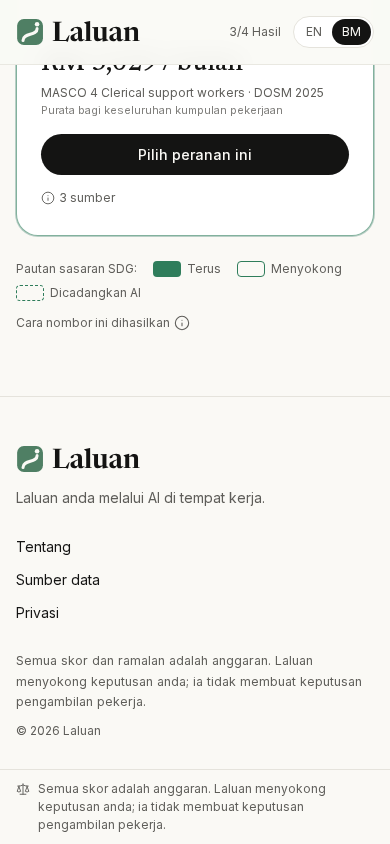
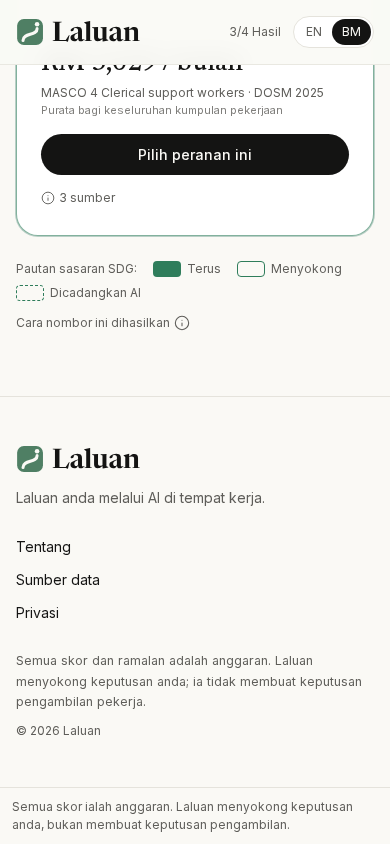
Shorter BM disclaimer + mobile bar layout (#49)
* UI polish: EN|BM site toggle, footer, profile card, interview Q2/Q3, results heading, hover popovers, show-less toggles, DOSM salary on role cards

* i18n: move fixed UI strings into EN/BM dictionaries (BM machine-translated)

* Designer fixes: exposure placeholder, disclaimer bar, toast dismiss, sticky header, horizontal scenario tabs, popover alignment, exposure line, grid alignment, mobile landing, BM fixes, education block, Q2 heading

* i18n status labels and salary unit, stacked mobile landing preview, refreshed EN/BM screenshots

* Text-only exposure-pending card with not-job-loss line; pure i18n-messages module so /status prerenders; Toaster duration 3000; salary CSV major-group notes and masco_level=1; results viewport screenshots

* Shorter BM disclaimer bar text; refresh BM mobile results screenshots

* Disclaimer bar: hide scale icon and 12px side padding on mobile; refresh EN/BM mobile results screenshots

Changed region(s): [[0.0308, 0.9242, 0.8308, 0.9858]]

diff --git a/src/components/estimate-footer.tsx b/src/components/estimate-footer.tsx
@@ -8,9 +8,9 @@ export function EstimateFooter() {
   const { t } = useT();
   return (
     <footer className="fixed inset-x-0 bottom-0 z-40 border-t border-line bg-paper">
-      <div className="mx-auto flex max-w-[1248px] items-center justify-between gap-4 px-4 py-2.5 text-[12px] text-grey sm:px-6">
+      <div className="mx-auto flex max-w-[1248px] items-center justify-between gap-4 px-3 py-2.5 text-[12px] text-grey sm:px-6">
         <p className="flex items-start gap-2 sm:items-center">
-          <Scale className="mt-0.5 size-3.5 shrink-0 sm:mt-0" strokeWidth={1.6} />
+          <Scale className="mt-0.5 hidden size-3.5 shrink-0 sm:block sm:mt-0" strokeWidth={1.6} />
           {t("estimateFooter.disclaimer")}
         </p>
         <span className="tag hidden whitespace-nowrap sm:inline-flex">{t("estimateFooter.publicData")}</span>

diff --git a/src/lib/i18n-messages.ts b/src/lib/i18n-messages.ts
@@ -476,7 +476,7 @@ export const MS: Record<MessageKey, string> = {
   "radar.tooSmallItem": "{keyword} ({recent} berbanding {previous})",
   "radar.matchYourSkills": "Padankan kemahiran anda sendiri",
   "estimateFooter.disclaimer":
-    "Semua skor adalah anggaran. Laluan menyokong keputusan anda; ia tidak membuat keputusan pengambilan pekerja.",
+    "Semua skor ialah anggaran. Laluan menyokong keputusan anda, bukan membuat keputusan pengambilan.",
   "estimateFooter.publicData": "Data awam, profil sintetik",
   "refreshButton.label": "Muat semula",
   "roleCard.tier.direct": "Terus",
